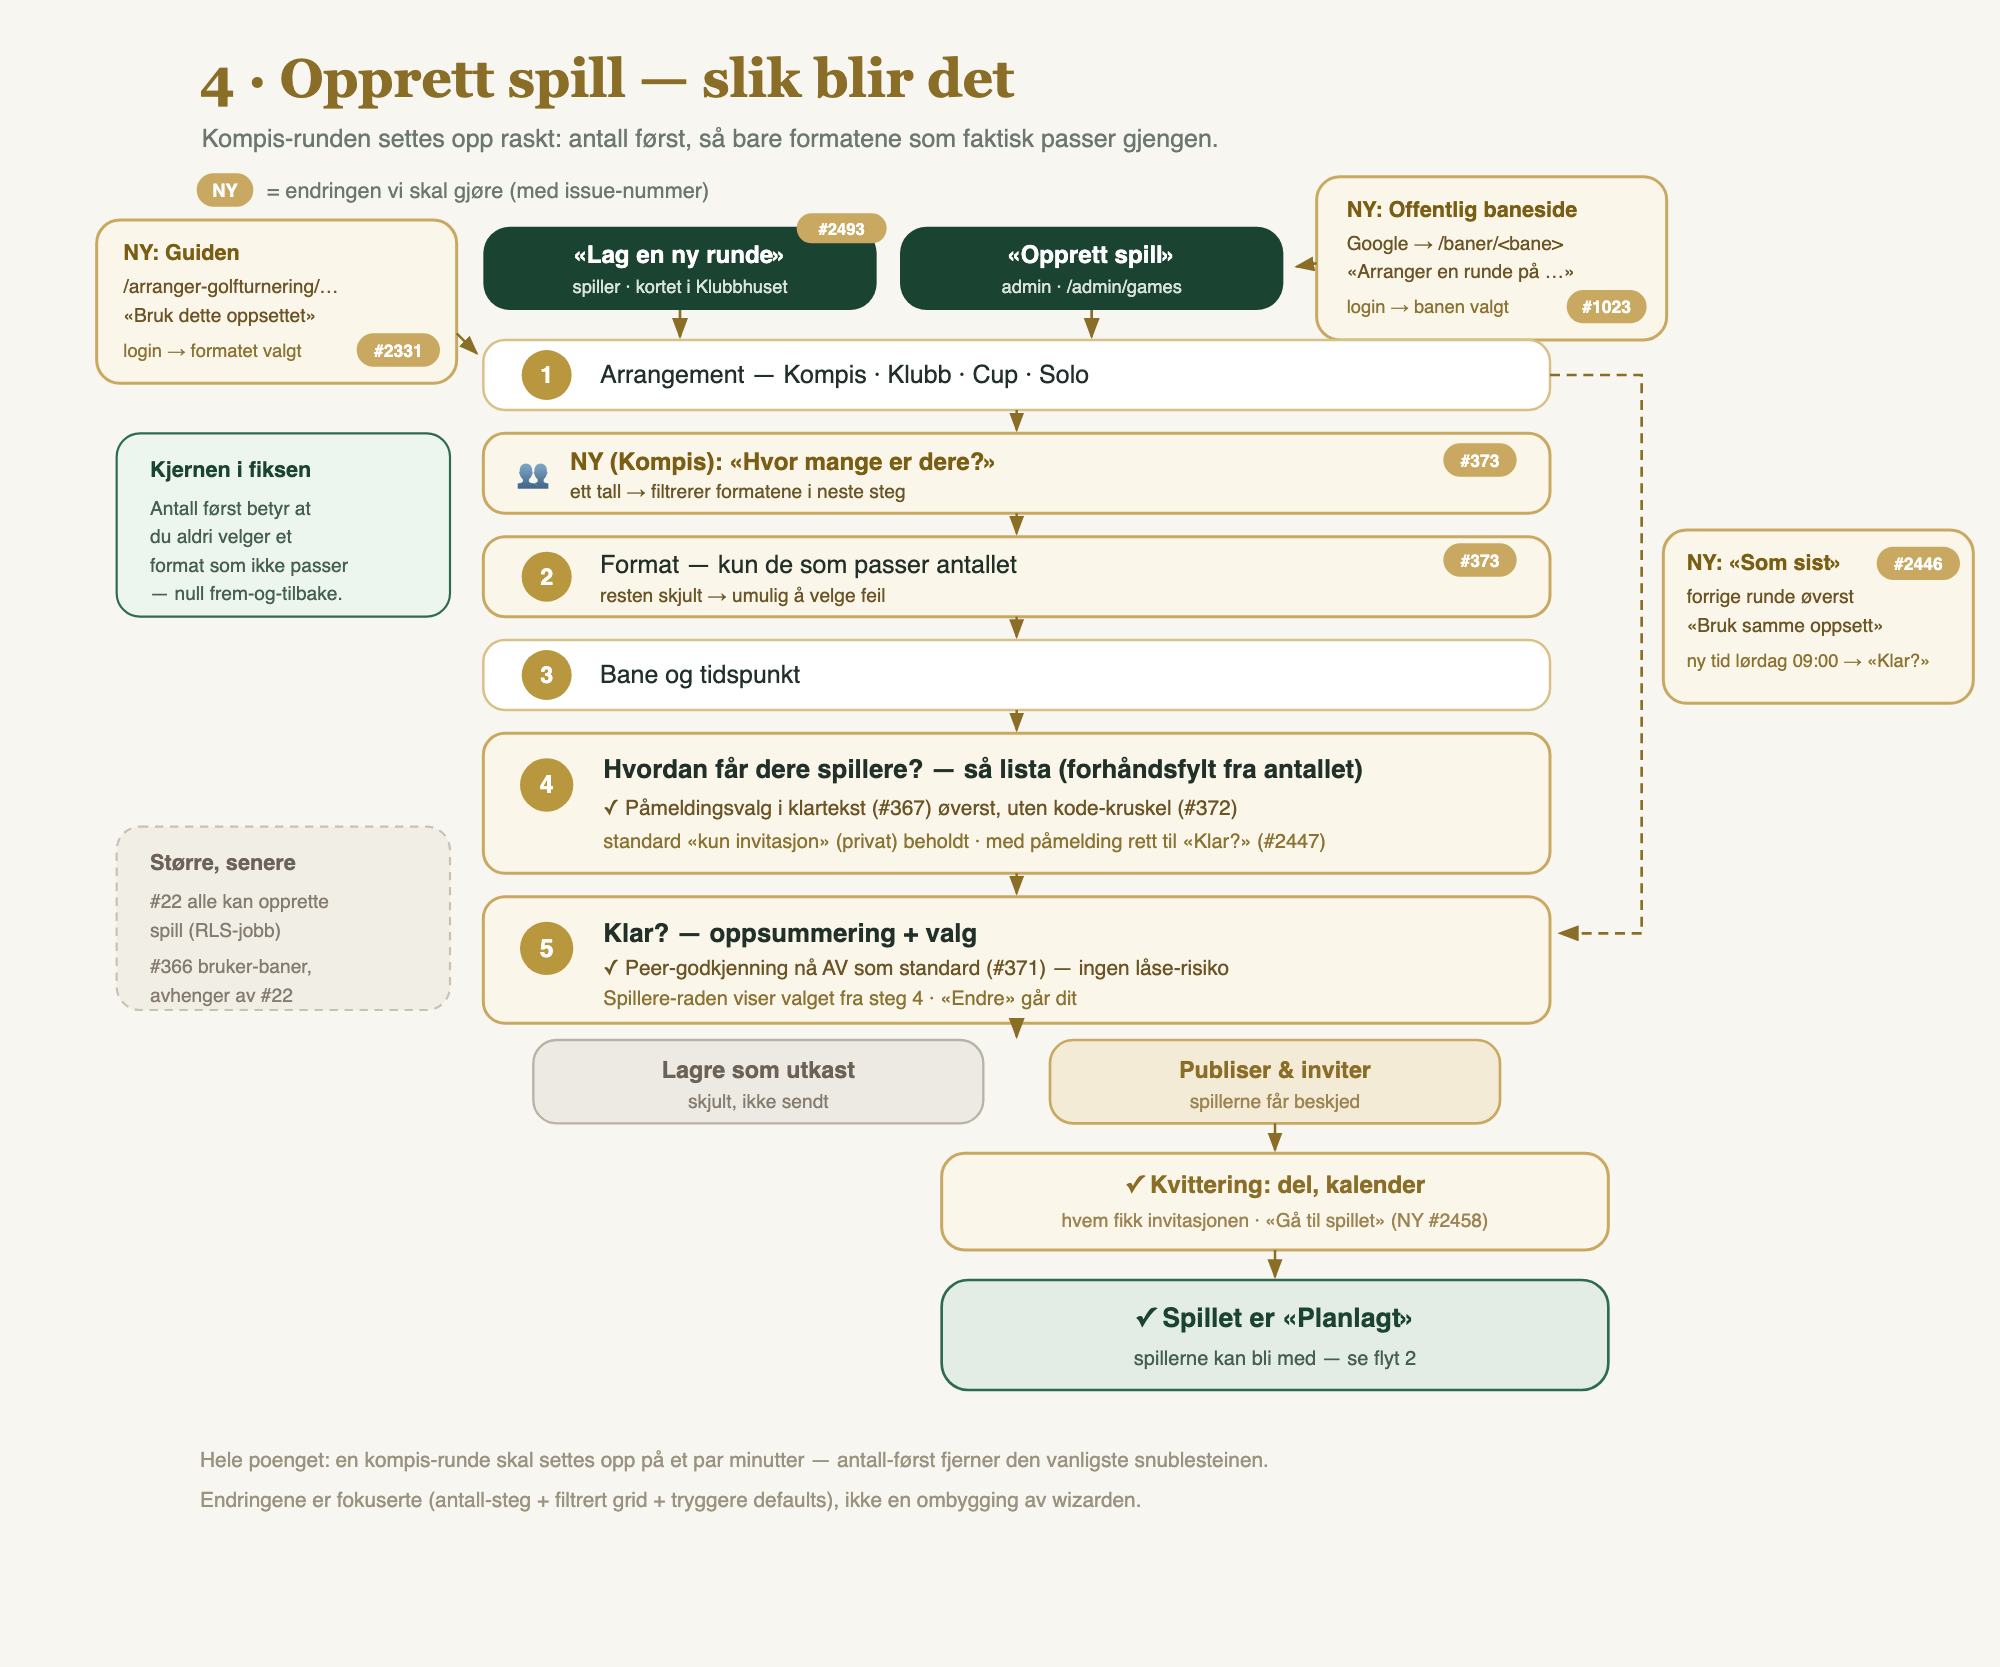
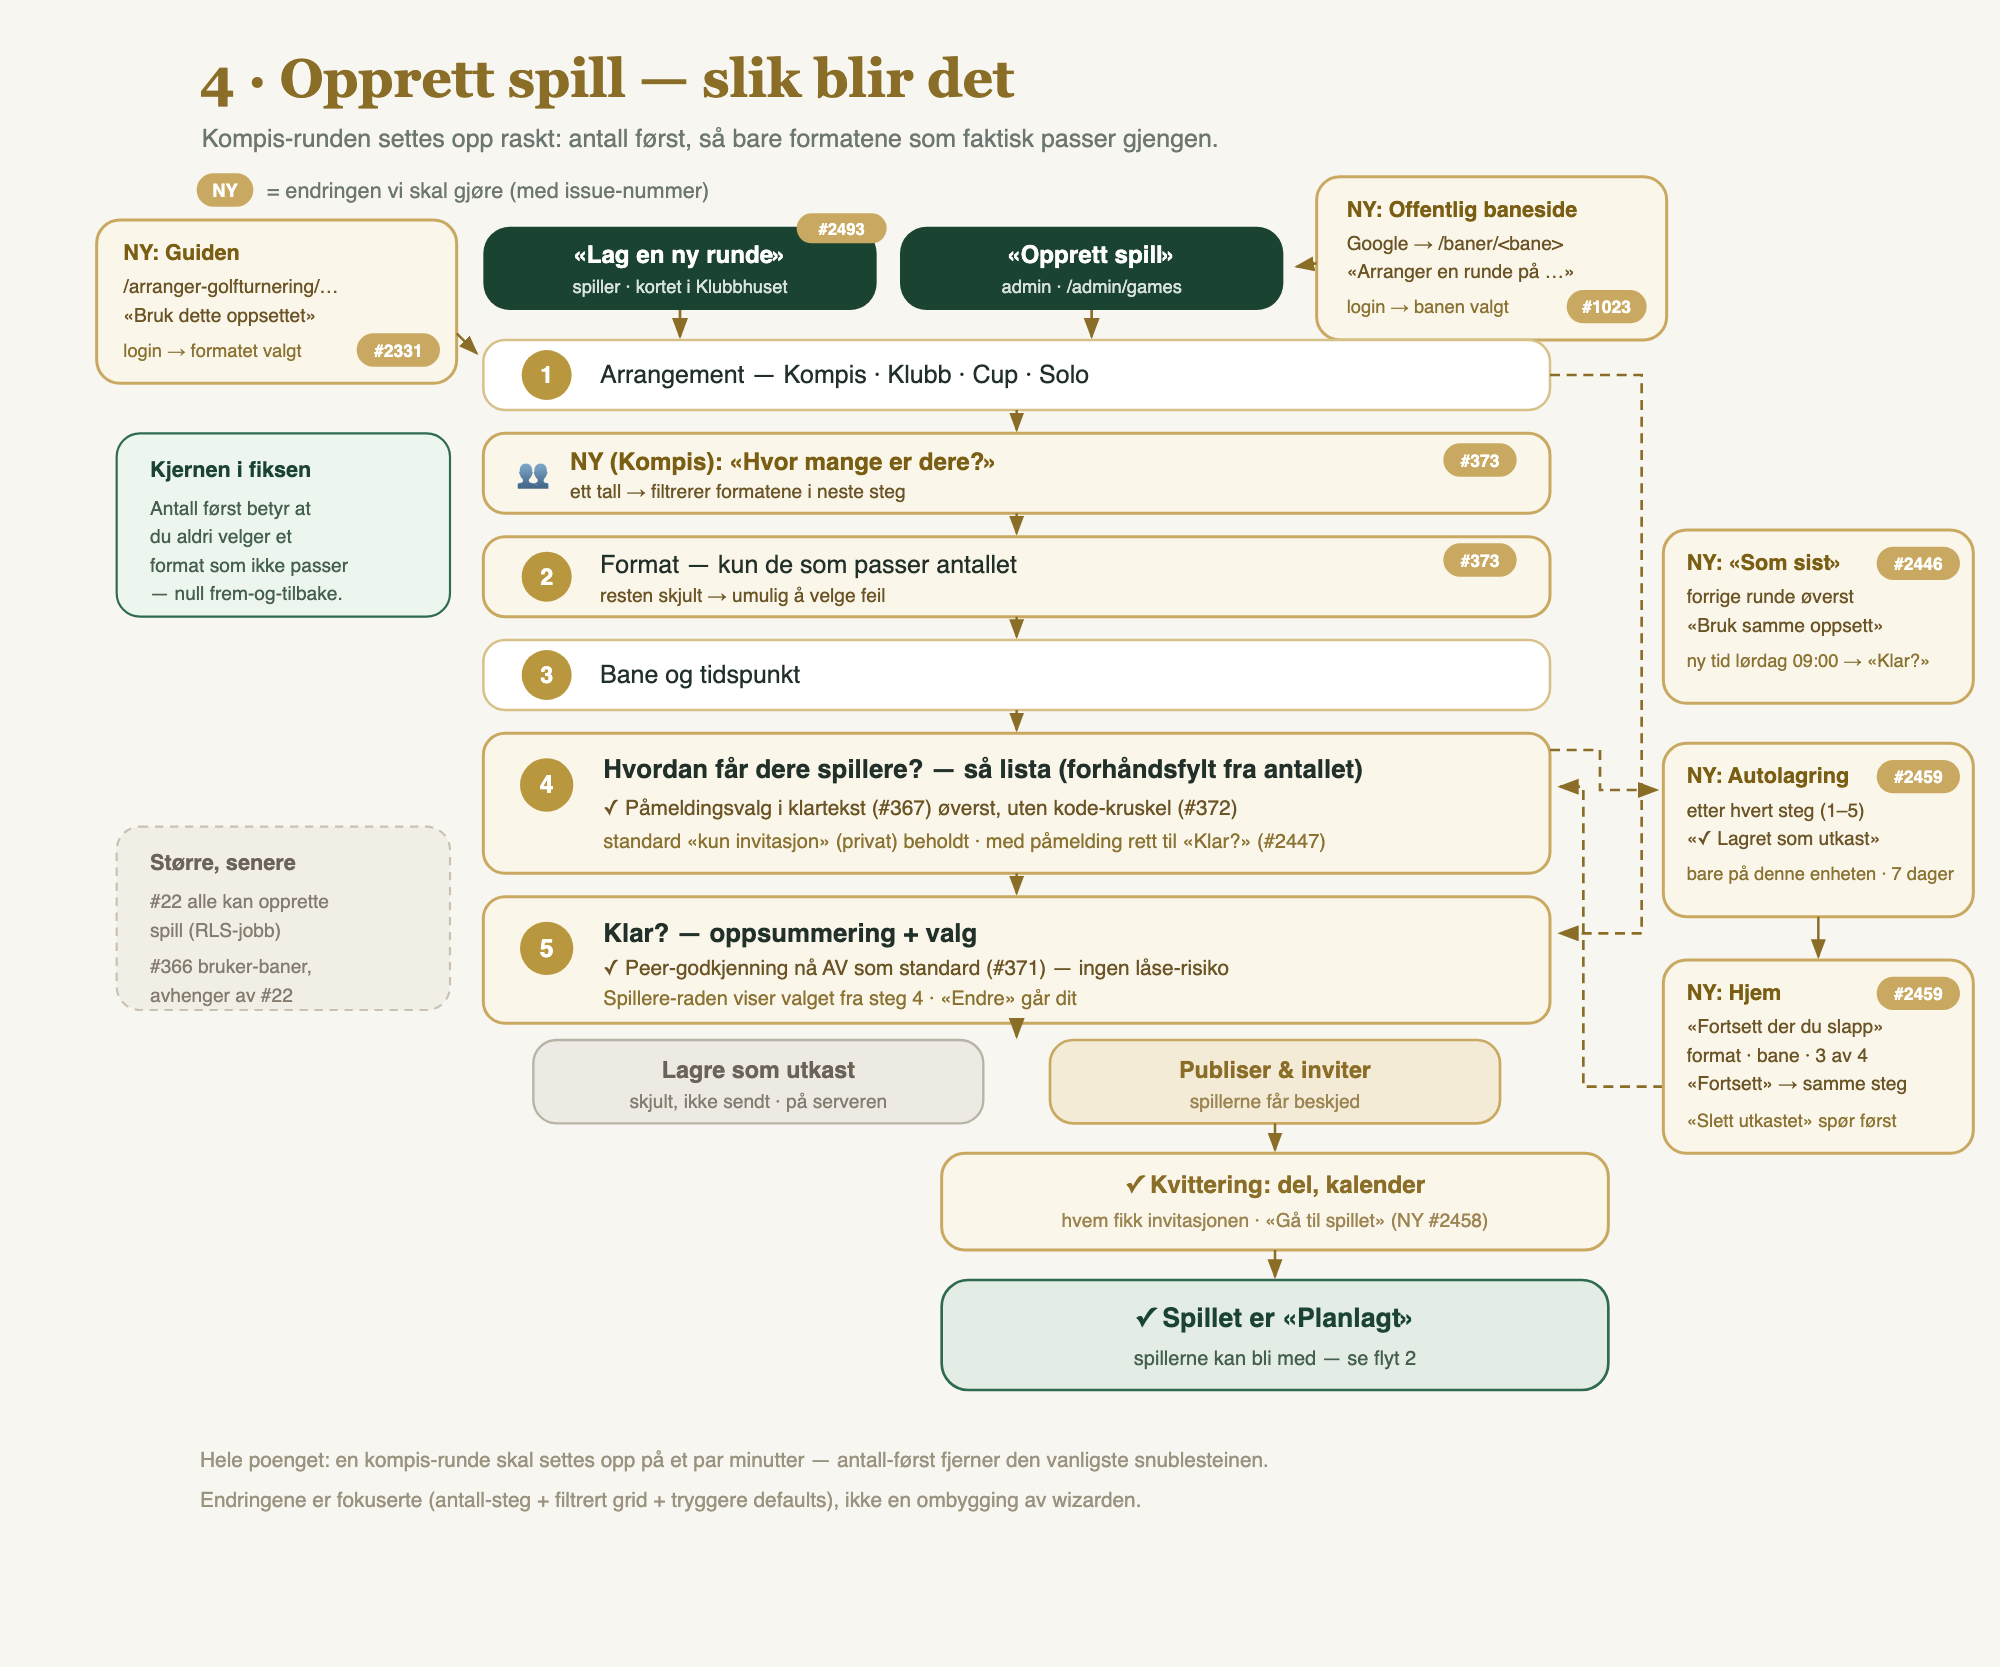
docs(flows): the new-game draft saves itself and Home resumes it
Flow 4 (future) shows the autosave on every step and the Home entry;
user-flows.md gets the Home node and an autosave paragraph.

Refs #2459

Changed region(s): [[0.775, 0.4367, 0.992, 0.5303], [0.837, 0.5615, 0.992, 0.6863], [0.31, 0.6551, 0.434, 0.6863]]

diff --git a/docs/user-flows.md b/docs/user-flows.md
@@ -43,6 +43,8 @@ flowchart TD
   Prof -- ja --> Home["/ (Hjem)"]
   CP --> Home
   Home --> PH{har spill?}
+  Home --> Resume["Fortsett der du slapp<br/>(halvferdig oppsett på denne enheten, #2459)"]
+  Resume -- Fortsett --> Wiz["Veiviseren på steget du slapp"]
   PH -- ja --> List["Mine spill / Avsluttede spill"]
   PH -- nei --> Disc["Finn turneringer<br/>(åpne spill + dine klubbers spill)"]
   Nav["Bunn-nav (alle innloggede):<br/>Hjem · Innboks · Klubbhuset · Profil"]
@@ -249,6 +251,8 @@ flowchart LR
 | 4 Spillere | `PlayerSourceChoice` + `PlayerPickerGrid` + `PlayerTray`, så `TeamsAssignmentSection` | Øverst, under tittelen «Hvordan får dere spillere?», står påmeldingsvalget (#2447, #367): «Jeg velger dem nå» (standard, privat), «De ber om plass, jeg godkjenner» (med «Slipp venner direkte inn», #369) og «Åpen påmelding». Velges påmelding, er lista valgfri og «Neste: Klar?» går rett til steg 5, også i best ball med deg alene. Klubb-turneringen har ikke valget (medlemskap er invitasjonen, #643) og beholder tittelen «Hvem skal spille?». Under valget: vennene (eller klubbmedlemmene) som kort, du selv først og så sist spilt først (`orderPickerPlayers`, #2321). Brettet nederst teller mot målet («3 av 4 · én til»). Lagformater og singles matchplay fordeler lag, sider og flights på en egen skjerm («Neste: lagene»); solo-formatene har tee per spiller på velgeren. Gjest legges til fra «+ Gjest»; «✉ E-post» samler adresser som inviteres når spillet publiseres (`sendPublishInvites`). Steget kan stå tomt hvis påmelding er valgt øverst på steget, og i en klubb-turnering med individuell påmelding (#2433). |
 | 5 Klar? | `ReadyStep` | Et lite invitasjonskort med spillnavnet som felt midt i kortet, og en sjekkliste (Bane, Format, Tee-off, Spillere) med status og «Endre» som hopper til steget valget bor på (#2282). Spillere-raden sier hvordan spillerne kommer («Privat», «Du godkjenner påmeldinger», «Åpen påmelding»; ikke i en klubb-turnering), og «Endre» går til steg 4 der valget bor (#2447). Under lista: «Vis avanserte innstillinger». Brettet nederst: «Publiser og del invitasjonen» (`createAndPublishGame`, status `scheduled` + invitasjoner) eller «Lagre som utkast» (`createGameDraft`, status `draft`). Publisering varsler alle på lista én gang (`notifyRosterInvites`); en tom klubb-turnering varsler ingen. «Lagre som utkast» varsler ingen (#2445). En venn uten fullført profil stopper ikke publiseringen. Runden starter når profilen er på plass, og spillerraden på steg 5 sier «N venter på profil» (#2441). Er alle valgte spillere gjester, blir spillerraden rød og publiseringen stoppes alltid, uansett påmeldingsmåte; serveren avviser også (`guestOnlyRoster`, #2570). Redigering av en planlagt runde stoppes ikke. |
 | Kvittering | `app/[locale]/games/[id]/klar/page.tsx` (#2458) | «Publiser og del invitasjonen» lander her, fra ny runde og fra utkast, for admin og arrangør (`requireAdminOrCreator`). Redirecten erstatter veiviseren i historikken, så «Tilbake» fra spillet gir kvitteringen. Øverst står «✓ {navn} er klar» og hvem som har fått invitasjonen (`lib/games/publishReceipt.ts`: lista uten arrangøren, den som publiserte, gjester og trukne; opptil tre fornavn, så «og N til», e-postinvitasjoner sist). Under står det lille kortet fra «Klar?» uten felt, og så «Del i gruppechatten» (delingsarket, ellers kopiering), «Kopier lenke», «Legg i kalenderen» (`.ics`, også for arrangøren som ikke spiller) og «Gå til spillet» (admin `/admin/games/[id]`, andre `/games/[id]`). Delingsknappene står bare når `isPubliclyViewable` sier ja, så «Bare de jeg inviterer» viser ingen lenke. Siden skriver ingenting og kan lastes på nytt; et spill som ikke er planlagt, eller en cupkamp, sender videre til spillet. Cupkamper, utkast og en publisering der e-postinvitasjoner feilet, beholder sine redirecter. |
+
+**Autolagring (#2459).** Veiviseren lagrer oppsettet av seg selv etter hvert steg, i `localStorage` på denne enheten, per bruker og per flate (`/opprett-spill`, `/admin/games/new`), i 7 døgn (`wizardStatePersistence`). Det er ingen `games`-rad, ingen invitasjon og ingen synlighet for spillerne: «Lagre som utkast» på «Klar?» er fortsatt veien til et serverutkast. Merket «✓ Lagret som utkast» under stegtittelen står bare når siste skriving gikk. Fra steg 2 og utover står oppsettet øverst på Hjem under «Fortsett der du slapp» (`ResumeDraftCard`): format, bane, valgte spillere mot antallet fra steg 2 og «Steg X av 5». «Fortsett» åpner den lagrede lenka (steg, `skjerm=lag` og kontekst som `?klubb=`), «Slett utkastet» går til `/opprett-spill/slett-utkast`. Publisering, «Lagre som utkast», sletting, utlogging, eierbytte og kontosletting fjerner det.
 
 Publiserer en arrangør som ikke er admin uten å stå på lista selv, lander hen på arrangørvisningen på `/games/[id]` i stedet for ikke-funnet-siden (#2202) når hen trykker «Gå til spillet» på kvitteringen.
 
